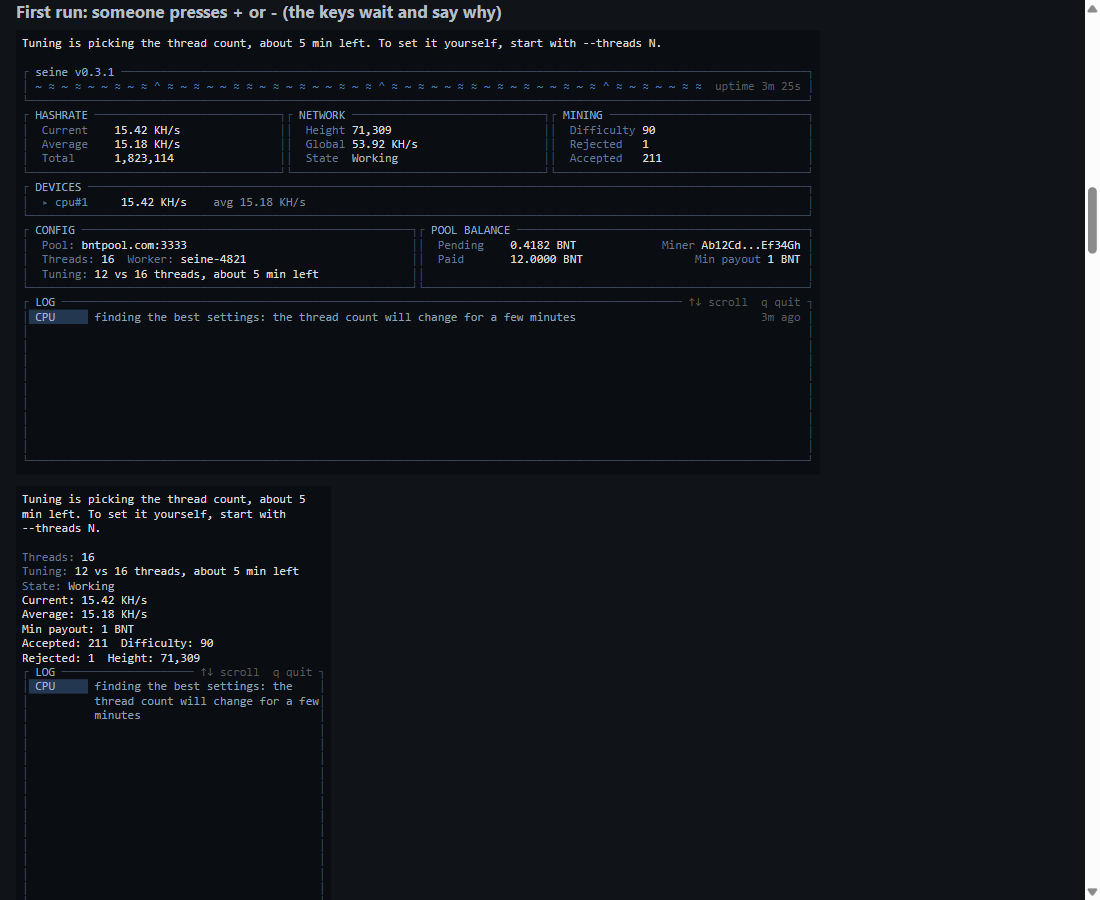
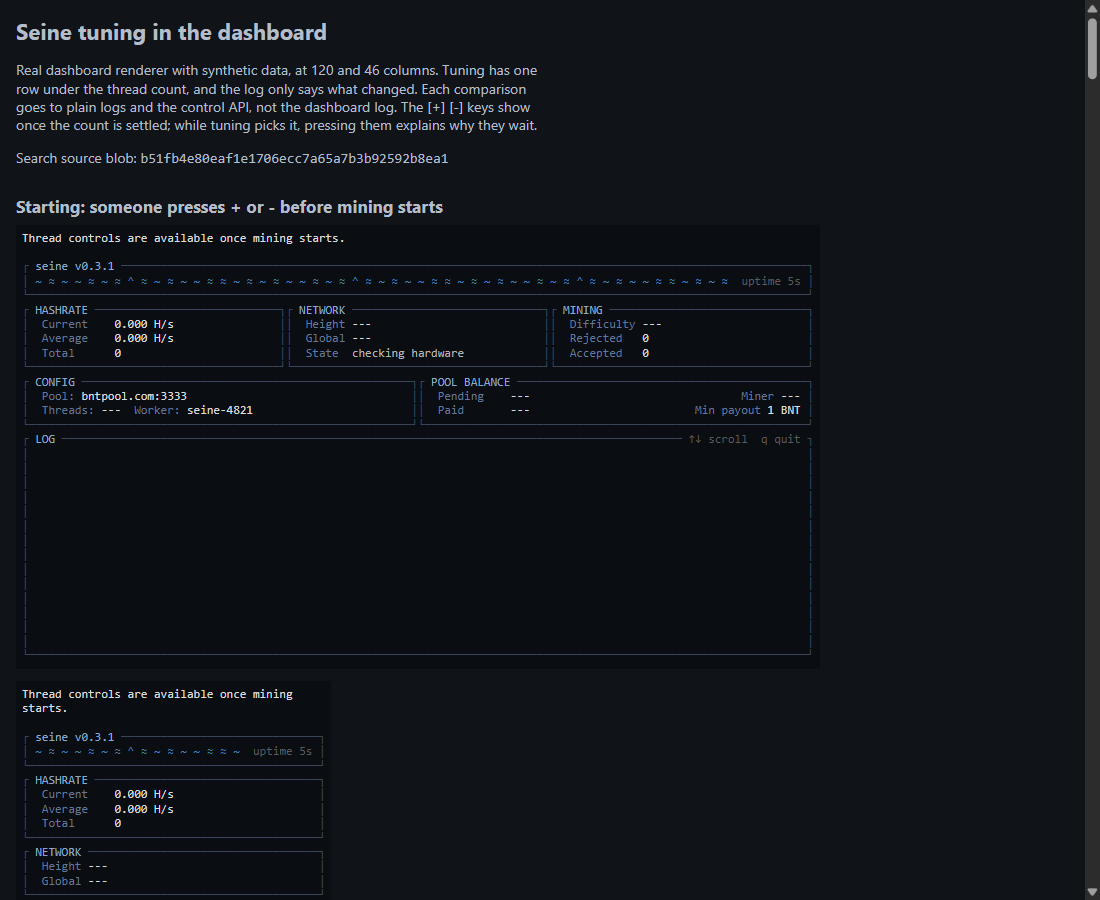
Show the thread keys before mining starts in the tuning showcase
Claude-Session: https://claude.ai/code/session_01Aa42KjtX9RgRVvnaMaxBwL

diff --git a/docs/showcases/autotune-startup/index.html b/docs/showcases/autotune-startup/index.html
@@ -1,7 +1,73 @@
 <!DOCTYPE html><html lang="en"><meta charset="utf-8">
 <meta name="viewport" content="width=device-width, initial-scale=1"><title>Seine tuning in the dashboard</title>
 <style>body{margin:16px;background:#101318;color:#b4bec8;font:14px system-ui}h1{font-size:22px}h2{font-size:17px;margin:28px 0 8px}pre{background:#0a0d12;padding:6px;margin:0 0 12px;font:12px/1.2 ui-monospace,Menlo,monospace;width:max-content}p{max-width:70ch}@media(max-width:700px){.desktop{display:none}}</style>
-<h1>Seine tuning in the dashboard</h1><p>Real dashboard renderer with synthetic data, at 120 and 46 columns. Tuning has one row under the thread count, and the log only says what changed. Each comparison goes to plain logs and the control API, not the dashboard log. The [+] [-] keys show once the count is settled; while tuning picks it, pressing them explains why they wait.</p><p>Search source blob: <code>81b53a5aa03ecbff12b7becdd5772d755eeaa42b</code></p><h2>First run: trying kernels</h2><div class=desktop><pre><span style='color:#3c465a'>┌</span><span style='color:#8caac8'> seine v0.3.1 </span><span style='color:#3c465a'>────────────────────────────────────────────────────────────────────────────────────────────────────────┐</span>
+<h1>Seine tuning in the dashboard</h1><p>Real dashboard renderer with synthetic data, at 120 and 46 columns. Tuning has one row under the thread count, and the log only says what changed. Each comparison goes to plain logs and the control API, not the dashboard log. The [+] [-] keys show once the count is settled; while tuning picks it, pressing them explains why they wait.</p><p>Search source blob: <code>b51fb4e80eaf1e1706ecc7a65a7b3b92592b8ea1</code></p><h2>Starting: someone presses + or - before mining starts</h2><div class=desktop><pre><span style='color:#dcdcdc'>Thread controls are available once mining starts.                                                                       </span>
+<span style='color:#dcdcdc'>                                                                                                                        </span>
+<span style='color:#3c465a'>┌</span><span style='color:#8caac8'> seine v0.3.1 </span><span style='color:#3c465a'>────────────────────────────────────────────────────────────────────────────────────────────────────────┐</span>
+<span style='color:#3c465a'>│</span><span style='color:#b4bec8'> </span><span style='color:#417daf'>~</span><span style='color:#b4bec8'> </span><span style='color:#417daf'>≈</span><span style='color:#b4bec8'> </span><span style='color:#417daf'>~</span><span style='color:#b4bec8'> </span><span style='color:#417daf'>~</span><span style='color:#b4bec8'> </span><span style='color:#417daf'>≈</span><span style='color:#b4bec8'> </span><span style='color:#417daf'>~</span><span style='color:#b4bec8'> </span><span style='color:#417daf'>≈</span><span style='color:#b4bec8'> </span><span style='color:#417daf'>^</span><span style='color:#b4bec8'> </span><span style='color:#417daf'>≈</span><span style='color:#b4bec8'> </span><span style='color:#417daf'>~</span><span style='color:#b4bec8'> </span><span style='color:#417daf'>≈</span><span style='color:#b4bec8'> </span><span style='color:#417daf'>~</span><span style='color:#b4bec8'> </span><span style='color:#417daf'>~</span><span style='color:#b4bec8'> </span><span style='color:#417daf'>≈</span><span style='color:#b4bec8'> </span><span style='color:#417daf'>≈</span><span style='color:#b4bec8'> </span><span style='color:#417daf'>~</span><span style='color:#b4bec8'> </span><span style='color:#417daf'>≈</span><span style='color:#b4bec8'> </span><span style='color:#417daf'>~</span><span style='color:#b4bec8'> </span><span style='color:#417daf'>≈</span><span style='color:#b4bec8'> </span><span style='color:#417daf'>~</span><span style='color:#b4bec8'> </span><span style='color:#417daf'>~</span><span style='color:#b4bec8'> </span><span style='color:#417daf'>≈</span><span style='color:#b4bec8'> </span><span style='color:#417daf'>~</span><span style='color:#b4bec8'> </span><span style='color:#417daf'>≈</span><span style='color:#b4bec8'> </span><span style='color:#417daf'>^</span><span style='color:#b4bec8'> </span><span style='color:#417daf'>≈</span><span style='color:#b4bec8'> </span><span style='color:#417daf'>~</span><span style='color:#b4bec8'> </span><span style='color:#417daf'>≈</span><span style='color:#b4bec8'> </span><span style='color:#417daf'>~</span><span style='color:#b4bec8'> </span><span style='color:#417daf'>~</span><span style='color:#b4bec8'> </span><span style='color:#417daf'>≈</span><span style='color:#b4bec8'> </span><span style='color:#417daf'>≈</span><span style='color:#b4bec8'> </span><span style='color:#417daf'>~</span><span style='color:#b4bec8'> </span><span style='color:#417daf'>≈</span><span style='color:#b4bec8'> </span><span style='color:#417daf'>~</span><span style='color:#b4bec8'> </span><span style='color:#417daf'>≈</span><span style='color:#b4bec8'> </span><span style='color:#417daf'>~</span><span style='color:#b4bec8'> </span><span style='color:#417daf'>~</span><span style='color:#b4bec8'> </span><span style='color:#417daf'>≈</span><span style='color:#b4bec8'> </span><span style='color:#417daf'>~</span><span style='color:#b4bec8'> </span><span style='color:#417daf'>≈</span><span style='color:#b4bec8'> </span><span style='color:#417daf'>^</span><span style='color:#b4bec8'> </span><span style='color:#417daf'>≈</span><span style='color:#b4bec8'> </span><span style='color:#417daf'>~</span><span style='color:#b4bec8'> </span><span style='color:#417daf'>≈</span><span style='color:#b4bec8'> </span><span style='color:#417daf'>~</span><span style='color:#b4bec8'> </span><span style='color:#417daf'>~</span><span style='color:#b4bec8'> </span><span style='color:#417daf'>≈</span><span style='color:#b4bec8'> </span><span style='color:#417daf'>≈</span><span style='color:#b4bec8'> </span><span style='color:#417daf'>~</span><span style='color:#b4bec8'> </span><span style='color:#417daf'>≈</span><span style='color:#b4bec8'> </span><span style='color:#417daf'>~</span><span style='color:#b4bec8'> </span><span style='color:#417daf'>≈</span><span style='color:#b4bec8'> </span><span style='color:#5a5a5a'> uptime 5s </span><span style='color:#3c465a'>│</span>
+<span style='color:#3c465a'>└──────────────────────────────────────────────────────────────────────────────────────────────────────────────────────┘</span>
+<span style='color:#3c465a'>┌</span><span style='color:#8caac8'> HASHRATE </span><span style='color:#3c465a'>────────────────────────────┐┌</span><span style='color:#8caac8'> NETWORK </span><span style='color:#3c465a'>─────────────────────────────┐┌</span><span style='color:#8caac8'> MINING </span><span style='color:#3c465a'>──────────────────────────────┐</span>
+<span style='color:#3c465a'>│</span><span style='color:#647896'>  Current    </span><span style='color:#dcdcdc'>0.000 H/s</span><span style='color:#b4bec8'>                </span><span style='color:#3c465a'>││</span><span style='color:#647896'>  Height </span><span style='color:#dcdcdc'>---</span><span style='color:#b4bec8'>                          </span><span style='color:#3c465a'>││</span><span style='color:#647896'>  Difficulty </span><span style='color:#dcdcdc'>---</span><span style='color:#b4bec8'>                      </span><span style='color:#3c465a'>│</span>
+<span style='color:#3c465a'>│</span><span style='color:#647896'>  Average    </span><span style='color:#dcdcdc'>0.000 H/s</span><span style='color:#b4bec8'>                </span><span style='color:#3c465a'>││</span><span style='color:#647896'>  Global </span><span style='color:#dcdcdc'>---</span><span style='color:#b4bec8'>                          </span><span style='color:#3c465a'>││</span><span style='color:#647896'>  Rejected   </span><span style='color:#dcdcdc'>0</span><span style='color:#b4bec8'>                        </span><span style='color:#3c465a'>│</span>
+<span style='color:#3c465a'>│</span><span style='color:#647896'>  Total      </span><span style='color:#dcdcdc'>0</span><span style='color:#b4bec8'>                        </span><span style='color:#3c465a'>││</span><span style='color:#647896'>  State  </span><span style='color:#b4b4b4'>checking hardware</span><span style='color:#b4bec8'>            </span><span style='color:#3c465a'>││</span><span style='color:#647896'>  Accepted   </span><span style='color:#dcdcdc'>0</span><span style='color:#b4bec8'>                        </span><span style='color:#3c465a'>│</span>
+<span style='color:#3c465a'>└──────────────────────────────────────┘└──────────────────────────────────────┘└──────────────────────────────────────┘</span>
+<span style='color:#3c465a'>┌</span><span style='color:#8caac8'> CONFIG </span><span style='color:#3c465a'>──────────────────────────────────────────────────┐┌</span><span style='color:#8caac8'> POOL BALANCE </span><span style='color:#3c465a'>────────────────────────────────────────────┐</span>
+<span style='color:#3c465a'>│</span><span style='color:#647896'>  Pool: </span><span style='color:#dcdcdc'>bntpool.com:3333</span><span style='color:#b4bec8'>                                  </span><span style='color:#3c465a'>││</span><span style='color:#647896'>  Pending    </span><span style='color:#dcdcdc'>---</span><span style='color:#b4bec8'>                              </span><span style='color:#647896'>  Miner </span><span style='color:#dcdcdc'>---</span><span style='color:#b4bec8'> </span><span style='color:#3c465a'>│</span>
+<span style='color:#3c465a'>│</span><span style='color:#b4bec8'>  </span><span style='color:#647896'>Threads: </span><span style='color:#dcdcdc'>---</span><span style='color:#647896'>  Worker: </span><span style='color:#dcdcdc'>seine-4821</span><span style='color:#b4bec8'>                        </span><span style='color:#3c465a'>││</span><span style='color:#647896'>  Paid       </span><span style='color:#dcdcdc'>---</span><span style='color:#b4bec8'>                       </span><span style='color:#647896'>  Min payout </span><span style='color:#dcdcdc'>1 BNT</span><span style='color:#b4bec8'> </span><span style='color:#3c465a'>│</span>
+<span style='color:#3c465a'>└──────────────────────────────────────────────────────────┘└──────────────────────────────────────────────────────────┘</span>
+<span style='color:#3c465a'>┌</span><span style='color:#8caac8'> LOG </span><span style='color:#3c465a'>──────────────────────────────────────────────────────────────────────────────────────────────</span><span style='color:#5a5a5a'> ↑↓ scroll  q quit </span><span style='color:#3c465a'>┐</span>
+<span style='color:#3c465a'>│</span><span style='color:#b4bec8'>                                                                                                                      </span><span style='color:#3c465a'>│</span>
+<span style='color:#3c465a'>│</span><span style='color:#b4bec8'>                                                                                                                      </span><span style='color:#3c465a'>│</span>
+<span style='color:#3c465a'>│</span><span style='color:#b4bec8'>                                                                                                                      </span><span style='color:#3c465a'>│</span>
+<span style='color:#3c465a'>│</span><span style='color:#b4bec8'>                                                                                                                      </span><span style='color:#3c465a'>│</span>
+<span style='color:#3c465a'>│</span><span style='color:#b4bec8'>                                                                                                                      </span><span style='color:#3c465a'>│</span>
+<span style='color:#3c465a'>│</span><span style='color:#b4bec8'>                                                                                                                      </span><span style='color:#3c465a'>│</span>
+<span style='color:#3c465a'>│</span><span style='color:#b4bec8'>                                                                                                                      </span><span style='color:#3c465a'>│</span>
+<span style='color:#3c465a'>│</span><span style='color:#b4bec8'>                                                                                                                      </span><span style='color:#3c465a'>│</span>
+<span style='color:#3c465a'>│</span><span style='color:#b4bec8'>                                                                                                                      </span><span style='color:#3c465a'>│</span>
+<span style='color:#3c465a'>│</span><span style='color:#b4bec8'>                                                                                                                      </span><span style='color:#3c465a'>│</span>
+<span style='color:#3c465a'>│</span><span style='color:#b4bec8'>                                                                                                                      </span><span style='color:#3c465a'>│</span>
+<span style='color:#3c465a'>│</span><span style='color:#b4bec8'>                                                                                                                      </span><span style='color:#3c465a'>│</span>
+<span style='color:#3c465a'>│</span><span style='color:#b4bec8'>                                                                                                                      </span><span style='color:#3c465a'>│</span>
+<span style='color:#3c465a'>│</span><span style='color:#b4bec8'>                                                                                                                      </span><span style='color:#3c465a'>│</span>
+<span style='color:#3c465a'>└──────────────────────────────────────────────────────────────────────────────────────────────────────────────────────┘</span>
+</pre></div><pre><span style='color:#dcdcdc'>Thread controls are available once mining     </span>
+<span style='color:#dcdcdc'>starts.                                       </span>
+<span style='color:#dcdcdc'>                                              </span>
+<span style='color:#3c465a'>┌</span><span style='color:#8caac8'> seine v0.3.1 </span><span style='color:#3c465a'>──────────────────────────────┐</span>
+<span style='color:#3c465a'>│</span><span style='color:#b4bec8'> </span><span style='color:#417daf'>~</span><span style='color:#b4bec8'> </span><span style='color:#417daf'>≈</span><span style='color:#b4bec8'> </span><span style='color:#417daf'>~</span><span style='color:#b4bec8'> </span><span style='color:#417daf'>~</span><span style='color:#b4bec8'> </span><span style='color:#417daf'>≈</span><span style='color:#b4bec8'> </span><span style='color:#417daf'>~</span><span style='color:#b4bec8'> </span><span style='color:#417daf'>≈</span><span style='color:#b4bec8'> </span><span style='color:#417daf'>^</span><span style='color:#b4bec8'> </span><span style='color:#417daf'>≈</span><span style='color:#b4bec8'> </span><span style='color:#417daf'>~</span><span style='color:#b4bec8'> </span><span style='color:#417daf'>≈</span><span style='color:#b4bec8'> </span><span style='color:#417daf'>~</span><span style='color:#b4bec8'> </span><span style='color:#417daf'>~</span><span style='color:#b4bec8'> </span><span style='color:#417daf'>≈</span><span style='color:#b4bec8'> </span><span style='color:#417daf'>≈</span><span style='color:#b4bec8'> </span><span style='color:#417daf'>~</span><span style='color:#b4bec8'> </span><span style='color:#5a5a5a'> uptime 5s </span><span style='color:#3c465a'>│</span>
+<span style='color:#3c465a'>└────────────────────────────────────────────┘</span>
+<span style='color:#3c465a'>┌</span><span style='color:#8caac8'> HASHRATE </span><span style='color:#3c465a'>──────────────────────────────────┐</span>
+<span style='color:#3c465a'>│</span><span style='color:#647896'>  Current    </span><span style='color:#dcdcdc'>0.000 H/s</span><span style='color:#b4bec8'>                      </span><span style='color:#3c465a'>│</span>
+<span style='color:#3c465a'>│</span><span style='color:#647896'>  Average    </span><span style='color:#dcdcdc'>0.000 H/s</span><span style='color:#b4bec8'>                      </span><span style='color:#3c465a'>│</span>
+<span style='color:#3c465a'>│</span><span style='color:#647896'>  Total      </span><span style='color:#dcdcdc'>0</span><span style='color:#b4bec8'>                              </span><span style='color:#3c465a'>│</span>
+<span style='color:#3c465a'>└────────────────────────────────────────────┘</span>
+<span style='color:#3c465a'>┌</span><span style='color:#8caac8'> NETWORK </span><span style='color:#3c465a'>───────────────────────────────────┐</span>
+<span style='color:#3c465a'>│</span><span style='color:#647896'>  Height </span><span style='color:#dcdcdc'>---</span><span style='color:#b4bec8'>                                </span><span style='color:#3c465a'>│</span>
+<span style='color:#3c465a'>│</span><span style='color:#647896'>  Global </span><span style='color:#dcdcdc'>---</span><span style='color:#b4bec8'>                                </span><span style='color:#3c465a'>│</span>
+<span style='color:#3c465a'>└────────────────────────────────────────────┘</span>
+<span style='color:#3c465a'>┌</span><span style='color:#8caac8'> MINING </span><span style='color:#3c465a'>────────────────────────────────────┐</span>
+<span style='color:#3c465a'>│</span><span style='color:#647896'>  Difficulty </span><span style='color:#dcdcdc'>---</span><span style='color:#b4bec8'>                            </span><span style='color:#3c465a'>│</span>
+<span style='color:#3c465a'>│</span><span style='color:#647896'>  Rejected   </span><span style='color:#dcdcdc'>0</span><span style='color:#b4bec8'>                              </span><span style='color:#3c465a'>│</span>
+<span style='color:#3c465a'>│</span><span style='color:#647896'>  Accepted   </span><span style='color:#dcdcdc'>0</span><span style='color:#b4bec8'>                              </span><span style='color:#3c465a'>│</span>
+<span style='color:#3c465a'>└────────────────────────────────────────────┘</span>
+<span style='color:#3c465a'>┌</span><span style='color:#8caac8'> CONFIG </span><span style='color:#3c465a'>────────────────────────────────────┐</span>
+<span style='color:#3c465a'>│</span><span style='color:#647896'>  Pool: </span><span style='color:#dcdcdc'>bntpool.com:3333</span><span style='color:#b4bec8'>                    </span><span style='color:#3c465a'>│</span>
+<span style='color:#3c465a'>│</span><span style='color:#b4bec8'>  </span><span style='color:#647896'>Threads: </span><span style='color:#dcdcdc'>---</span><span style='color:#647896'>  Worker: </span><span style='color:#dcdcdc'>seine-4821</span><span style='color:#b4bec8'>          </span><span style='color:#3c465a'>│</span>
+<span style='color:#3c465a'>└────────────────────────────────────────────┘</span>
+<span style='color:#3c465a'>┌</span><span style='color:#8caac8'> POOL BALANCE </span><span style='color:#3c465a'>──────────────────────────────┐</span>
+<span style='color:#3c465a'>│</span><span style='color:#647896'>  Pending    </span><span style='color:#dcdcdc'>---</span><span style='color:#b4bec8'>                </span><span style='color:#647896'>  Miner </span><span style='color:#dcdcdc'>---</span><span style='color:#b4bec8'> </span><span style='color:#3c465a'>│</span>
+<span style='color:#3c465a'>│</span><span style='color:#647896'>  Paid       </span><span style='color:#dcdcdc'>---</span><span style='color:#b4bec8'>         </span><span style='color:#647896'>  Min payout </span><span style='color:#dcdcdc'>1 BNT</span><span style='color:#b4bec8'> </span><span style='color:#3c465a'>│</span>
+<span style='color:#3c465a'>└────────────────────────────────────────────┘</span>
+<span style='color:#3c465a'>┌</span><span style='color:#8caac8'> LOG </span><span style='color:#3c465a'>────────────────────</span><span style='color:#5a5a5a'> ↑↓ scroll  q quit </span><span style='color:#3c465a'>┐</span>
+<span style='color:#3c465a'>│</span><span style='color:#b4bec8'>                                            </span><span style='color:#3c465a'>│</span>
+<span style='color:#3c465a'>│</span><span style='color:#b4bec8'>                                            </span><span style='color:#3c465a'>│</span>
+<span style='color:#3c465a'>│</span><span style='color:#b4bec8'>                                            </span><span style='color:#3c465a'>│</span>
+<span style='color:#3c465a'>│</span><span style='color:#b4bec8'>                                            </span><span style='color:#3c465a'>│</span>
+<span style='color:#3c465a'>│</span><span style='color:#b4bec8'>                                            </span><span style='color:#3c465a'>│</span>
+<span style='color:#3c465a'>│</span><span style='color:#b4bec8'>                                            </span><span style='color:#3c465a'>│</span>
+<span style='color:#3c465a'>└────────────────────────────────────────────┘</span>
+</pre><h2>First run: trying kernels</h2><div class=desktop><pre><span style='color:#3c465a'>┌</span><span style='color:#8caac8'> seine v0.3.1 </span><span style='color:#3c465a'>────────────────────────────────────────────────────────────────────────────────────────────────────────┐</span>
 <span style='color:#3c465a'>│</span><span style='color:#b4bec8'> </span><span style='color:#417daf'>~</span><span style='color:#b4bec8'> </span><span style='color:#417daf'>≈</span><span style='color:#b4bec8'> </span><span style='color:#417daf'>~</span><span style='color:#b4bec8'> </span><span style='color:#417daf'>≈</span><span style='color:#b4bec8'> </span><span style='color:#417daf'>~</span><span style='color:#b4bec8'> </span><span style='color:#417daf'>~</span><span style='color:#b4bec8'> </span><span style='color:#417daf'>≈</span><span style='color:#b4bec8'> </span><span style='color:#417daf'>~</span><span style='color:#b4bec8'> </span><span style='color:#417daf'>≈</span><span style='color:#b4bec8'> </span><span style='color:#417daf'>^</span><span style='color:#b4bec8'> </span><span style='color:#417daf'>≈</span><span style='color:#b4bec8'> </span><span style='color:#417daf'>~</span><span style='color:#b4bec8'> </span><span style='color:#417daf'>≈</span><span style='color:#b4bec8'> </span><span style='color:#417daf'>~</span><span style='color:#b4bec8'> </span><span style='color:#417daf'>~</span><span style='color:#b4bec8'> </span><span style='color:#417daf'>≈</span><span style='color:#b4bec8'> </span><span style='color:#417daf'>≈</span><span style='color:#b4bec8'> </span><span style='color:#417daf'>~</span><span style='color:#b4bec8'> </span><span style='color:#417daf'>≈</span><span style='color:#b4bec8'> </span><span style='color:#417daf'>~</span><span style='color:#b4bec8'> </span><span style='color:#417daf'>≈</span><span style='color:#b4bec8'> </span><span style='color:#417daf'>~</span><span style='color:#b4bec8'> </span><span style='color:#417daf'>~</span><span style='color:#b4bec8'> </span><span style='color:#417daf'>≈</span><span style='color:#b4bec8'> </span><span style='color:#417daf'>~</span><span style='color:#b4bec8'> </span><span style='color:#417daf'>≈</span><span style='color:#b4bec8'> </span><span style='color:#417daf'>^</span><span style='color:#b4bec8'> </span><span style='color:#417daf'>≈</span><span style='color:#b4bec8'> </span><span style='color:#417daf'>~</span><span style='color:#b4bec8'> </span><span style='color:#417daf'>≈</span><span style='color:#b4bec8'> </span><span style='color:#417daf'>~</span><span style='color:#b4bec8'> </span><span style='color:#417daf'>~</span><span style='color:#b4bec8'> </span><span style='color:#417daf'>≈</span><span style='color:#b4bec8'> </span><span style='color:#417daf'>≈</span><span style='color:#b4bec8'> </span><span style='color:#417daf'>~</span><span style='color:#b4bec8'> </span><span style='color:#417daf'>≈</span><span style='color:#b4bec8'> </span><span style='color:#417daf'>~</span><span style='color:#b4bec8'> </span><span style='color:#417daf'>≈</span><span style='color:#b4bec8'> </span><span style='color:#417daf'>~</span><span style='color:#b4bec8'> </span><span style='color:#417daf'>~</span><span style='color:#b4bec8'> </span><span style='color:#417daf'>≈</span><span style='color:#b4bec8'> </span><span style='color:#417daf'>~</span><span style='color:#b4bec8'> </span><span style='color:#417daf'>≈</span><span style='color:#b4bec8'> </span><span style='color:#417daf'>^</span><span style='color:#b4bec8'> </span><span style='color:#417daf'>≈</span><span style='color:#b4bec8'> </span><span style='color:#417daf'>~</span><span style='color:#b4bec8'> </span><span style='color:#417daf'>≈</span><span style='color:#b4bec8'> </span><span style='color:#417daf'>~</span><span style='color:#b4bec8'> </span><span style='color:#417daf'>~</span><span style='color:#b4bec8'> </span><span style='color:#417daf'>≈</span><span style='color:#b4bec8'> </span><span style='color:#417daf'>≈</span><span style='color:#b4bec8'> </span><span style='color:#5a5a5a'> uptime 3m 25s </span><span style='color:#3c465a'>│</span>
 <span style='color:#3c465a'>└──────────────────────────────────────────────────────────────────────────────────────────────────────────────────────┘</span>
 <span style='color:#3c465a'>┌</span><span style='color:#8caac8'> HASHRATE </span><span style='color:#3c465a'>────────────────────────────┐┌</span><span style='color:#8caac8'> NETWORK </span><span style='color:#3c465a'>─────────────────────────────┐┌</span><span style='color:#8caac8'> MINING </span><span style='color:#3c465a'>──────────────────────────────┐</span>

diff --git a/src/miner/thread_showcase.rs b/src/miner/thread_showcase.rs
@@ -284,6 +284,19 @@ fn export_autotune_showcase() {
         );
         cases
     };
+    {
+        // Before mining starts the keys say when they will work.
+        let mut starting = dashboard_fixture("checking hardware", &[]);
+        starting.pool_address = "---".into();
+        starting.before_first_run = true;
+        starting.handle_key(KeyEvent::new(KeyCode::Char('+'), KeyModifiers::NONE));
+        html.push_str(
+            "<h2>Starting: someone presses + or - before mining starts</h2><div class=desktop>",
+        );
+        html.push_str(&capture_full(&starting, 120, 30));
+        html.push_str("</div>");
+        html.push_str(&capture_full(&starting, 46, 36));
+    }
     for (name, threads, status, log) in cases {
         let (sender, _requests) = crossbeam_channel::bounded(1);
         let mut state = mining_fixture("Working", &log);

diff --git a/docs/showcases/autotune-startup/README.md b/docs/showcases/autotune-startup/README.md
@@ -9,7 +9,7 @@ python3 -m http.server 8770 --directory docs/showcases/autotune-startup
 ```
 
 `index.html` renders the real dashboard with synthetic data at 120 and 46 terminal
-columns, for every tuning state: trying kernels, comparing thread counts, a thread key
+columns, for every tuning state: a thread key pressed before mining starts, trying kernels, comparing thread counts, a thread key
 pressed while tuning picks the count, tuned, another look at a close result, a restart on
 the saved settings, an update that improved this CPU's kernel, an update that found something faster, low on RAM,
 RAM returned and no room for one thread. Regenerate it with:
